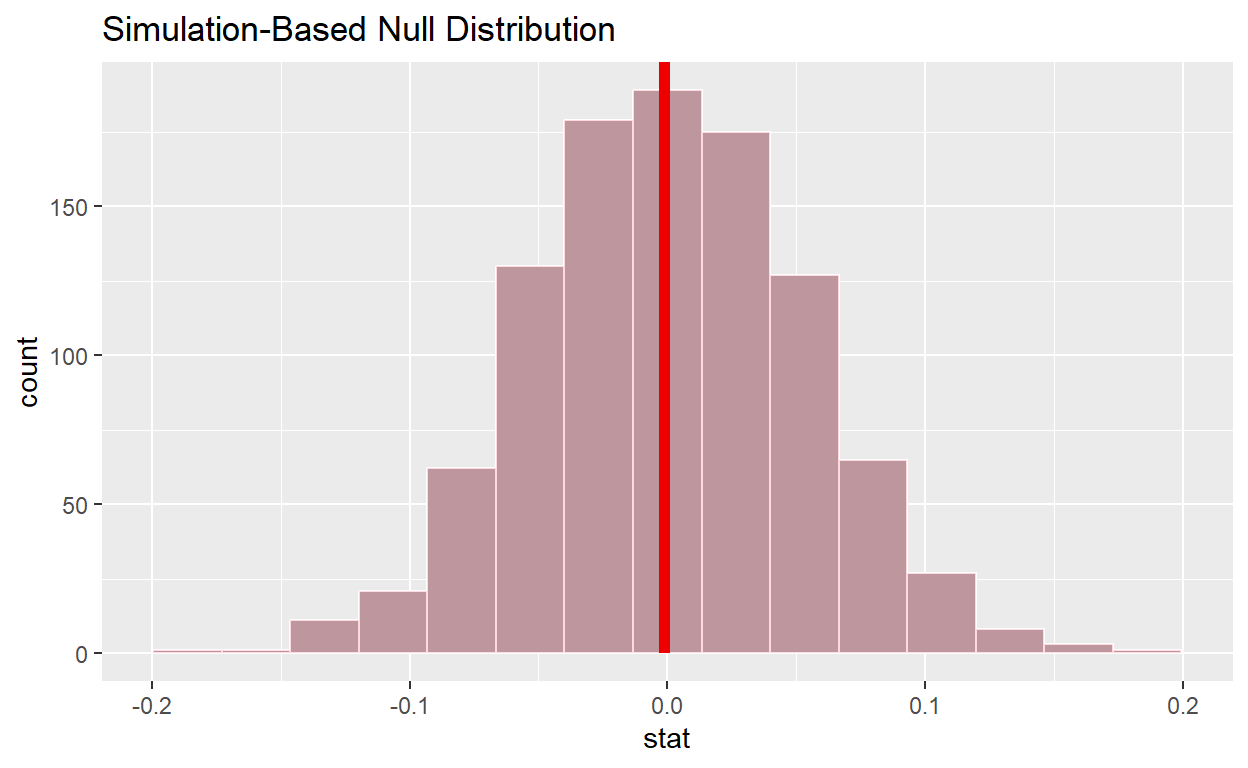
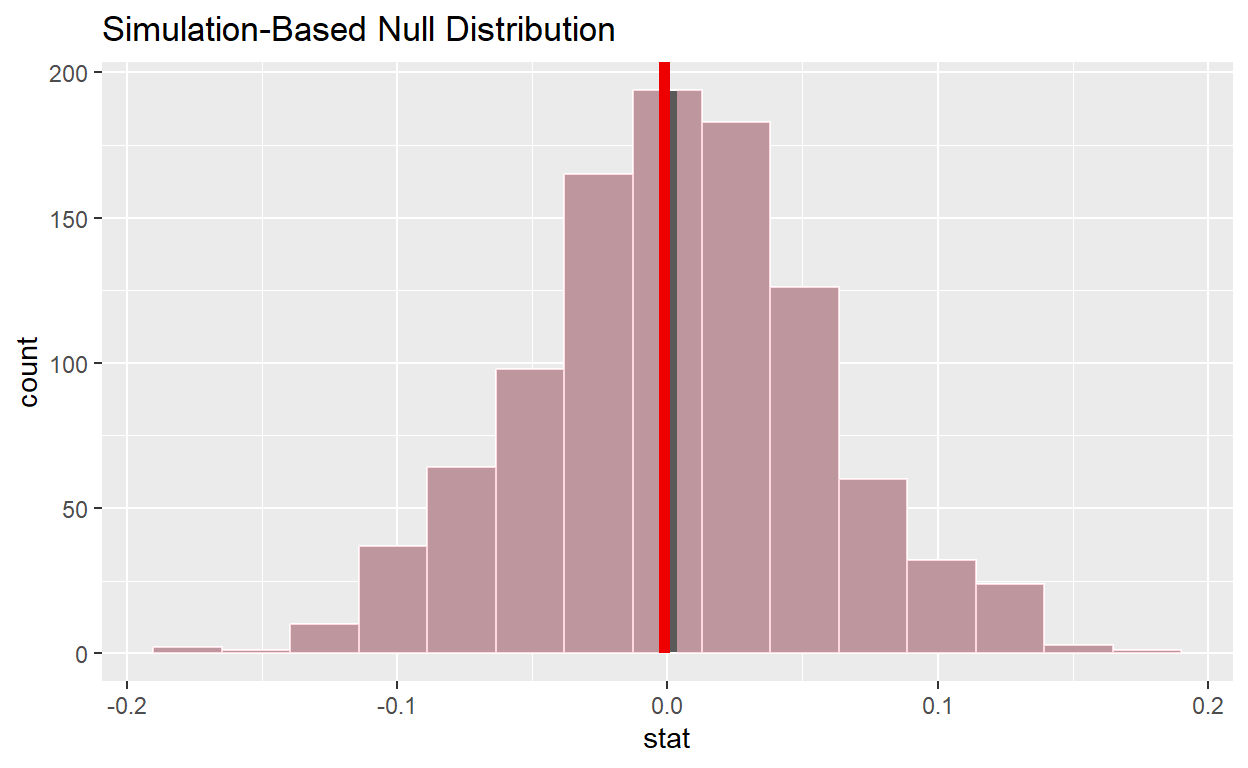
final

diff --git a/index.html b/index.html
@@ -1550,7 +1550,7 @@ code span.wa { color: #5e5e5e; font-style: italic; } /* Warning */
 #   and abbreviated variable names ¹`Hogwarts House`, ²`First Name`,
 #   ³`Last Name`, ⁴Birthday, ⁵`Best Hand`, ⁶Arithmancy, ⁷Astronomy</code></pre>
 </div>
-<p>The independent variables in this data set will be Birth month, Best Hand, Arithmancy, Astronomy, Herbology, Defense Against the Dark Arts, Divination, Muggle Studies, Ancient Runes, History of Magic, Transfiguration, Potions, Care of Magical Creatures, Charms, Flying, and the dependent variable, of course, will be Hogwarts House. I used a mutate function here to change the categorical variable, Hogwarts House, to a numerical one based on their performances in the HOUSE CUP competition. With Slytherin ranking first, Gryffindor second, Ravenclaw third, and Hufflepuff last, I assigned 4 to Slytherin, 3 to Gryffindor, 2 to Ravenclaw, and 1 to Hufflepuff as an indicator of overall “excellency”. This study looks at how independent variables, such as birth month, best hand, and performance in each subject affect a student’s house assignment. Put it in another way, do these personal traits affect the Sorting Hat’s decision to assign a student to different houses in terms of overall “excellency”?</p>
+<p>The independent variables in this data set will be Birth month, Best Hand, Arithmancy, Astronomy, Herbology, Defense Against the Dark Arts, Divination, Muggle Studies, Ancient Runes, History of Magic, Transfiguration, Potions, Care of Magical Creatures, Charms, Flying, and the dependent variable, of course, will be Hogwarts House. I used a mutate function here to change the categorical variable, Hogwarts House, to a numerical one based on their performances in the HOUSE CUP competition. With Slytherin ranking first, Gryffindor second, Ravenclaw third, and Hufflepuff last, I assigned 4 to Slytherin, 3 to Gryffindor, 2 to Ravenclaw, and 1 to Hufflepuff as an indicator of overall “excellency” of the house. This study looks at how independent variables, such as birth month, best hand, and performance in each subject affect a student’s house assignment. Put it in another way, do these personal traits affect the Sorting Hat’s decision to assign a student to different houses in terms of overall “excellency”?</p>
 <h2 id="does-best-hand-have-a-say">Does Best Hand Have a Say?</h2>
 <div class="layout-chunk" data-layout="l-body">
 <div class="sourceCode">
@@ -1585,16 +1585,16 @@ Null Hypothesis: independence
 # A tibble: 1,000 × 2
    replicate    stat
        &lt;int&gt;   &lt;dbl&gt;
- 1         1  0.0663
- 2         2 -0.0413
- 3         3 -0.0313
- 4         4 -0.0163
- 5         5 -0.0488
- 6         6  0.0313
- 7         7  0.0813
- 8         8 -0.0788
- 9         9  0.0413
-10        10  0.101 
+ 1         1 -0.0238
+ 2         2  0.0238
+ 3         3 -0.0188
+ 4         4 -0.0263
+ 5         5  0.0563
+ 6         6 -0.0463
+ 7         7  0.0288
+ 8         8 -0.0763
+ 9         9 -0.0963
+10        10  0.0188
 # … with 990 more rows</code></pre>
 <div class="sourceCode">
 <pre class="sourceCode r"><code class="sourceCode r"><span><span class='va'>base_p</span><span class='op'>&lt;-</span><span class='va'>null_diff</span><span class='op'>|&gt;</span></span>
@@ -1604,7 +1604,7 @@ Null Hypothesis: independence
 <pre><code># A tibble: 1 × 1
   p_value
     &lt;dbl&gt;
-1   0.998</code></pre>
+1   0.962</code></pre>
 </div>
 <p>Since the p value is far higher than 0.05 (in fact close to 1), we can retain the null hypothesis. That is, Best Hand does not have a say at all on the house that students were assigned.</p>
 <div class="layout-chunk" data-layout="l-body">
@@ -1723,7 +1723,7 @@ Null Hypothesis: independence
 </div>
 <p><img src="index_files/figure-html5/unnamed-chunk-5-1.png" width="624" /></p>
 </div>
-<p>To build a multiple regression model,we don’t need to use all the course variables. It is important to see what variables are useful to group people by. There is no use to use all features as some of them don’t provide an obvious division into groups and can bring only noise. From the table above we can narrow our related independent variables to Herbology, Divination, Defense against the Dark Arts, and Charms.</p>
+<p>To build a multiple regression model,we don’t need to use all the independent variables. It is important to see what variables are useful to group people by. There is no use to use all features as some of them don’t provide an obvious division into groups and can bring only noise. From the table above we can narrow our related independent variables to Herbology, Divination, Defense against the Dark Arts, and Charms that have a relatively strong correlation with the House_code.</p>
 <div class="layout-chunk" data-layout="l-body">
 <div class="sourceCode">
 <pre class="sourceCode r"><code class="sourceCode r"><span><span class='kw'><a href='https://rdrr.io/r/base/library.html'>library</a></span><span class='op'>(</span><span class='va'><a href='https://tidyverse.tidyverse.org'>tidyverse</a></span><span class='op'>)</span></span>
@@ -1896,7 +1896,7 @@ R2 Adj.
 </div>
 <p>Holding other variables constant, a one unit change in the independent variable Herbology would result in a change of negative 0.145 in the House_code (negative correlation), a one unit change in Divination would result in a change of negative 0.014 in the House_code (negative correlation), a one unit change in Defense Against the Dark Arts would result in a change of 0.1 in the House_code (positive correlation), and a one unit change in Charms would result in a change of negative 0.015 in the House_code (negative correlation).An estimated coefficient is statistically significant when its p value is less than alpha. Therefore, at the 0.05 level, Herbology, Defense against the Dark Arts, and Charms are all statistically significant, but Divination is not.</p>
 <h2 id="conclusion">Conclusion</h2>
-<p>According to the discussion above, the birth month of a student and his or her best hand have barely nothing to do with the Sorting Hat’s decision. As for performance in each of the main courses, a student’s performance in Herbology and Divination are both negatively correlated with the overall “excellency” of the house he or she is assigned to, and a student’s performance in Defense Against the Dark Arts is positively correlated with the overall “excellency” of the house he or she is assigned to. And these are statistically significant. This makes sense in that Defense Against the Dark Arts is assumed to be the most important skill in a world where Dark Art threatens the lives of almost everyone. An excellent wizard should be well equipped with knowledge in this field. Herbology and Divination, however, may make students a good scholar in academia, but not necessarily an excellent wizard. This study, however, only looks at the birth month, best hand, and performance in main courses. There might be many other variables that affect the Sorting Hat’s decision, for example, the students’ family background. Further study is therefore needed to take a step forward.</p>
+<p>According to the discussion above, the birth month of a student and his or her best hand have barely nothing to do with the Sorting Hat’s decision. As for performance in each of the main courses, a student’s performance in Herbology and Divination are both negatively correlated with the overall “excellency” of the house he or she is assigned to, and a student’s performance in Defense Against the Dark Arts is positively correlated with the overall “excellency” of the house he or she is assigned to. And these are statistically significant. This makes sense in that Defense Against the Dark Arts is assumed to be the most important skill in a world where Dark Art threatens the lives of almost everyone. An excellent wizard should be well equipped with knowledge in this field. Herbology and Divination, however, may make students a good scholar in academia, but not necessarily an excellent wizard. This study, however, only looks at the birth month, best hand, and performance in main courses. There might be many other variables that affect the Sorting Hat’s decision, for example, the students’ family background, characteristics, hometown, and so on. Further study is therefore needed to look at those variables.</p>
 <div class="sourceCode" id="cb6"><pre class="sourceCode r distill-force-highlighting-css"><code class="sourceCode r"></code></pre></div>
 <!--radix_placeholder_article_footer-->
 <!--/radix_placeholder_article_footer-->
